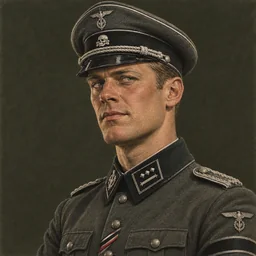
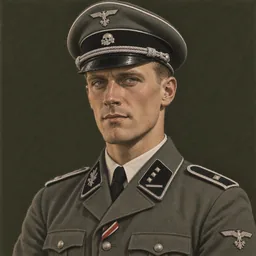
New portraits for Albrecht, Brandt, Lenz and Starck, with versions by chapter
Albrecht as a Leutnant in 1939-40 and a Hauptmann from Chapter III; Lenz as a
Gefreiter and, once he joins the Feldgendarmerie, with the gorget; Starck in
summer 1940, winter 1941 and disguised as a private in the camp in 1943.

Claude-Session: https://claude.ai/code/session_01FPxW8otRVdngYhnkrH8mAQ

Changed region(s): [[0.0312, 0.0, 1.0, 1.0]]

diff --git a/js/systems.js b/js/systems.js
@@ -38,8 +38,14 @@ Object.assign(SIM.PEOPLE, SIM.EXTRA_PEOPLE || {});
 SIM.PORTRAITS = ['hartmann', 'lenz', 'rau', 'vogel', 'brandt', 'albrecht', 'sattler', 'brenner', 'kuehn', 'claire', 'madame', 'pohl', 'starck', 'brandes', 'voss', 'wendt', 'mayr', 'brueck', 'nowak', 'haas', 'mother', 'father', 'liesel', 'grischa', 'kessler', 'vera', 'belov', 'wiese', 'rehm', 'tamas', 'lorenz', 'kraus', 'dorn', 'saal', 'fink'];
 
 // Some people have more than one portrait, chosen by chapter (e.g. summer and winter uniform).
+// Characters whose look changes with the chapter (rank, uniform, captivity).
 SIM.PORTRAIT_FILE = {
-  starck: s => (s.chapter || 0) >= 4 ? 'starck' : 'starck-summer'
+  // Summer 1940 (Obersturmführer) until Chapter V, winter coat (Hauptsturmführer) from then, disguised as a private in the camp.
+  starck: s => (s.chapter || 0) >= 7 && s.flags.track8 === 'camp' ? 'starck-pow' : (s.chapter || 0) >= 4 ? 'starck' : 'starck-summer',
+  // A young Leutnant in 1939–40, a Hauptmann from Chapter III.
+  albrecht: s => (s.chapter || 0) >= 2 ? 'albrecht' : 'albrecht-young',
+  // A Gefreiter in the squad in 1939–40; a military policeman with the gorget once he joins the Feldgendarmerie.
+  lenz: s => (s.chapter || 0) >= 2 && s.flags.lenzFeldgendarm ? 'lenz' : 'lenz-young'
 };
 // Words in the story text that mean a character. Default: the last word of the name.
 SIM.CAST_WORDS = {
